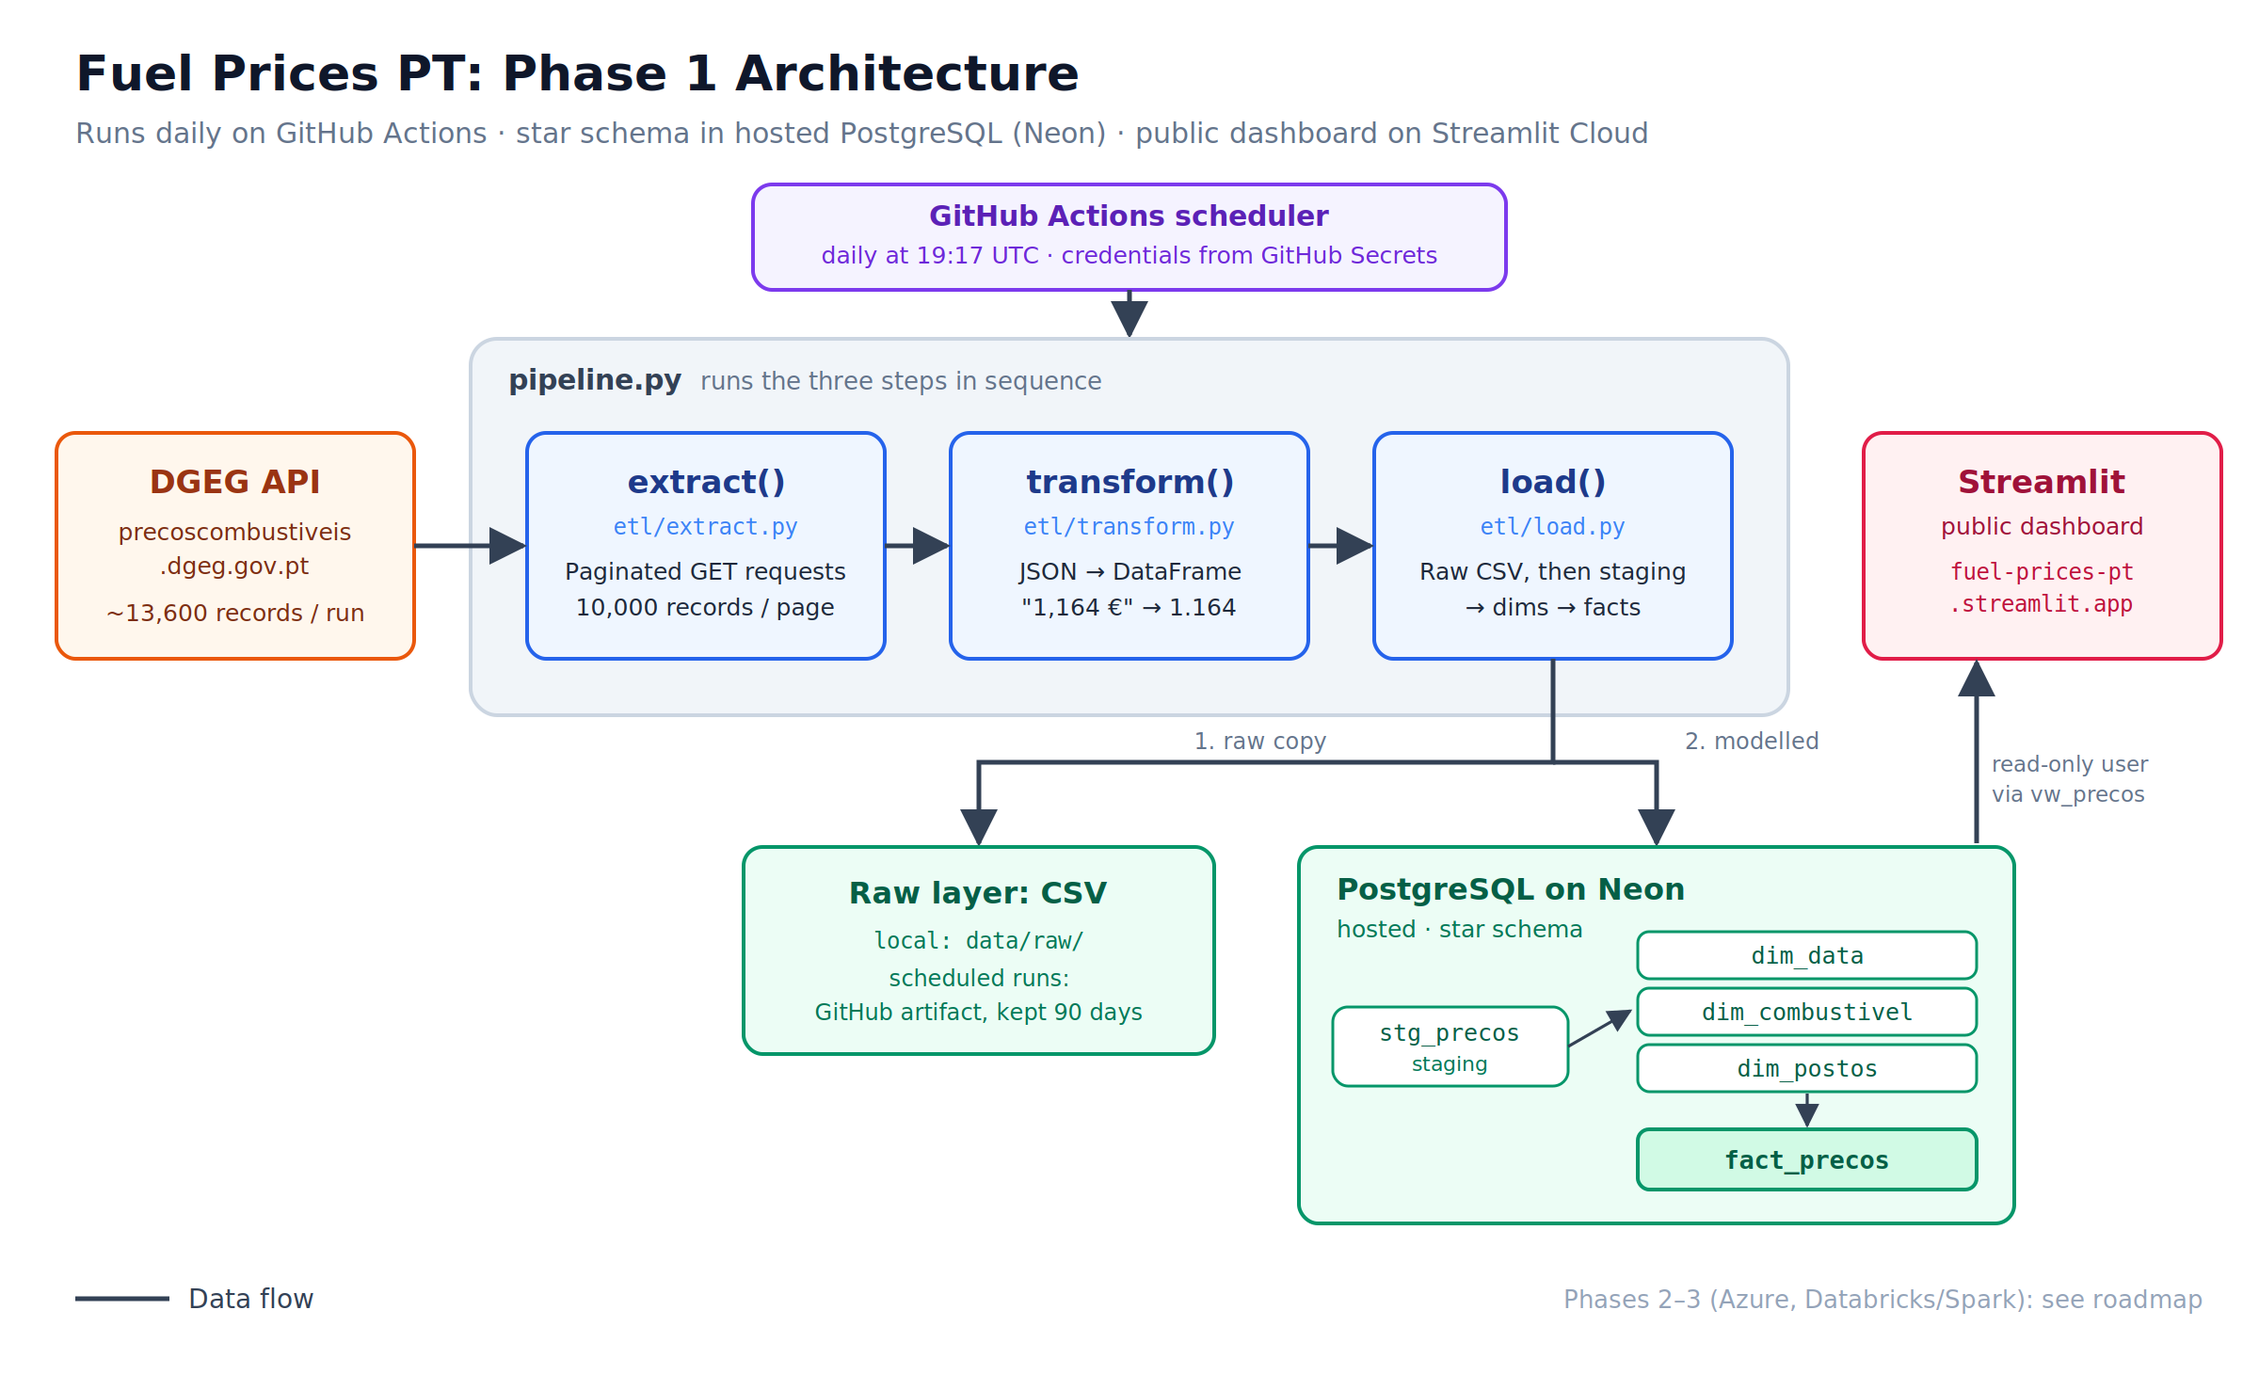
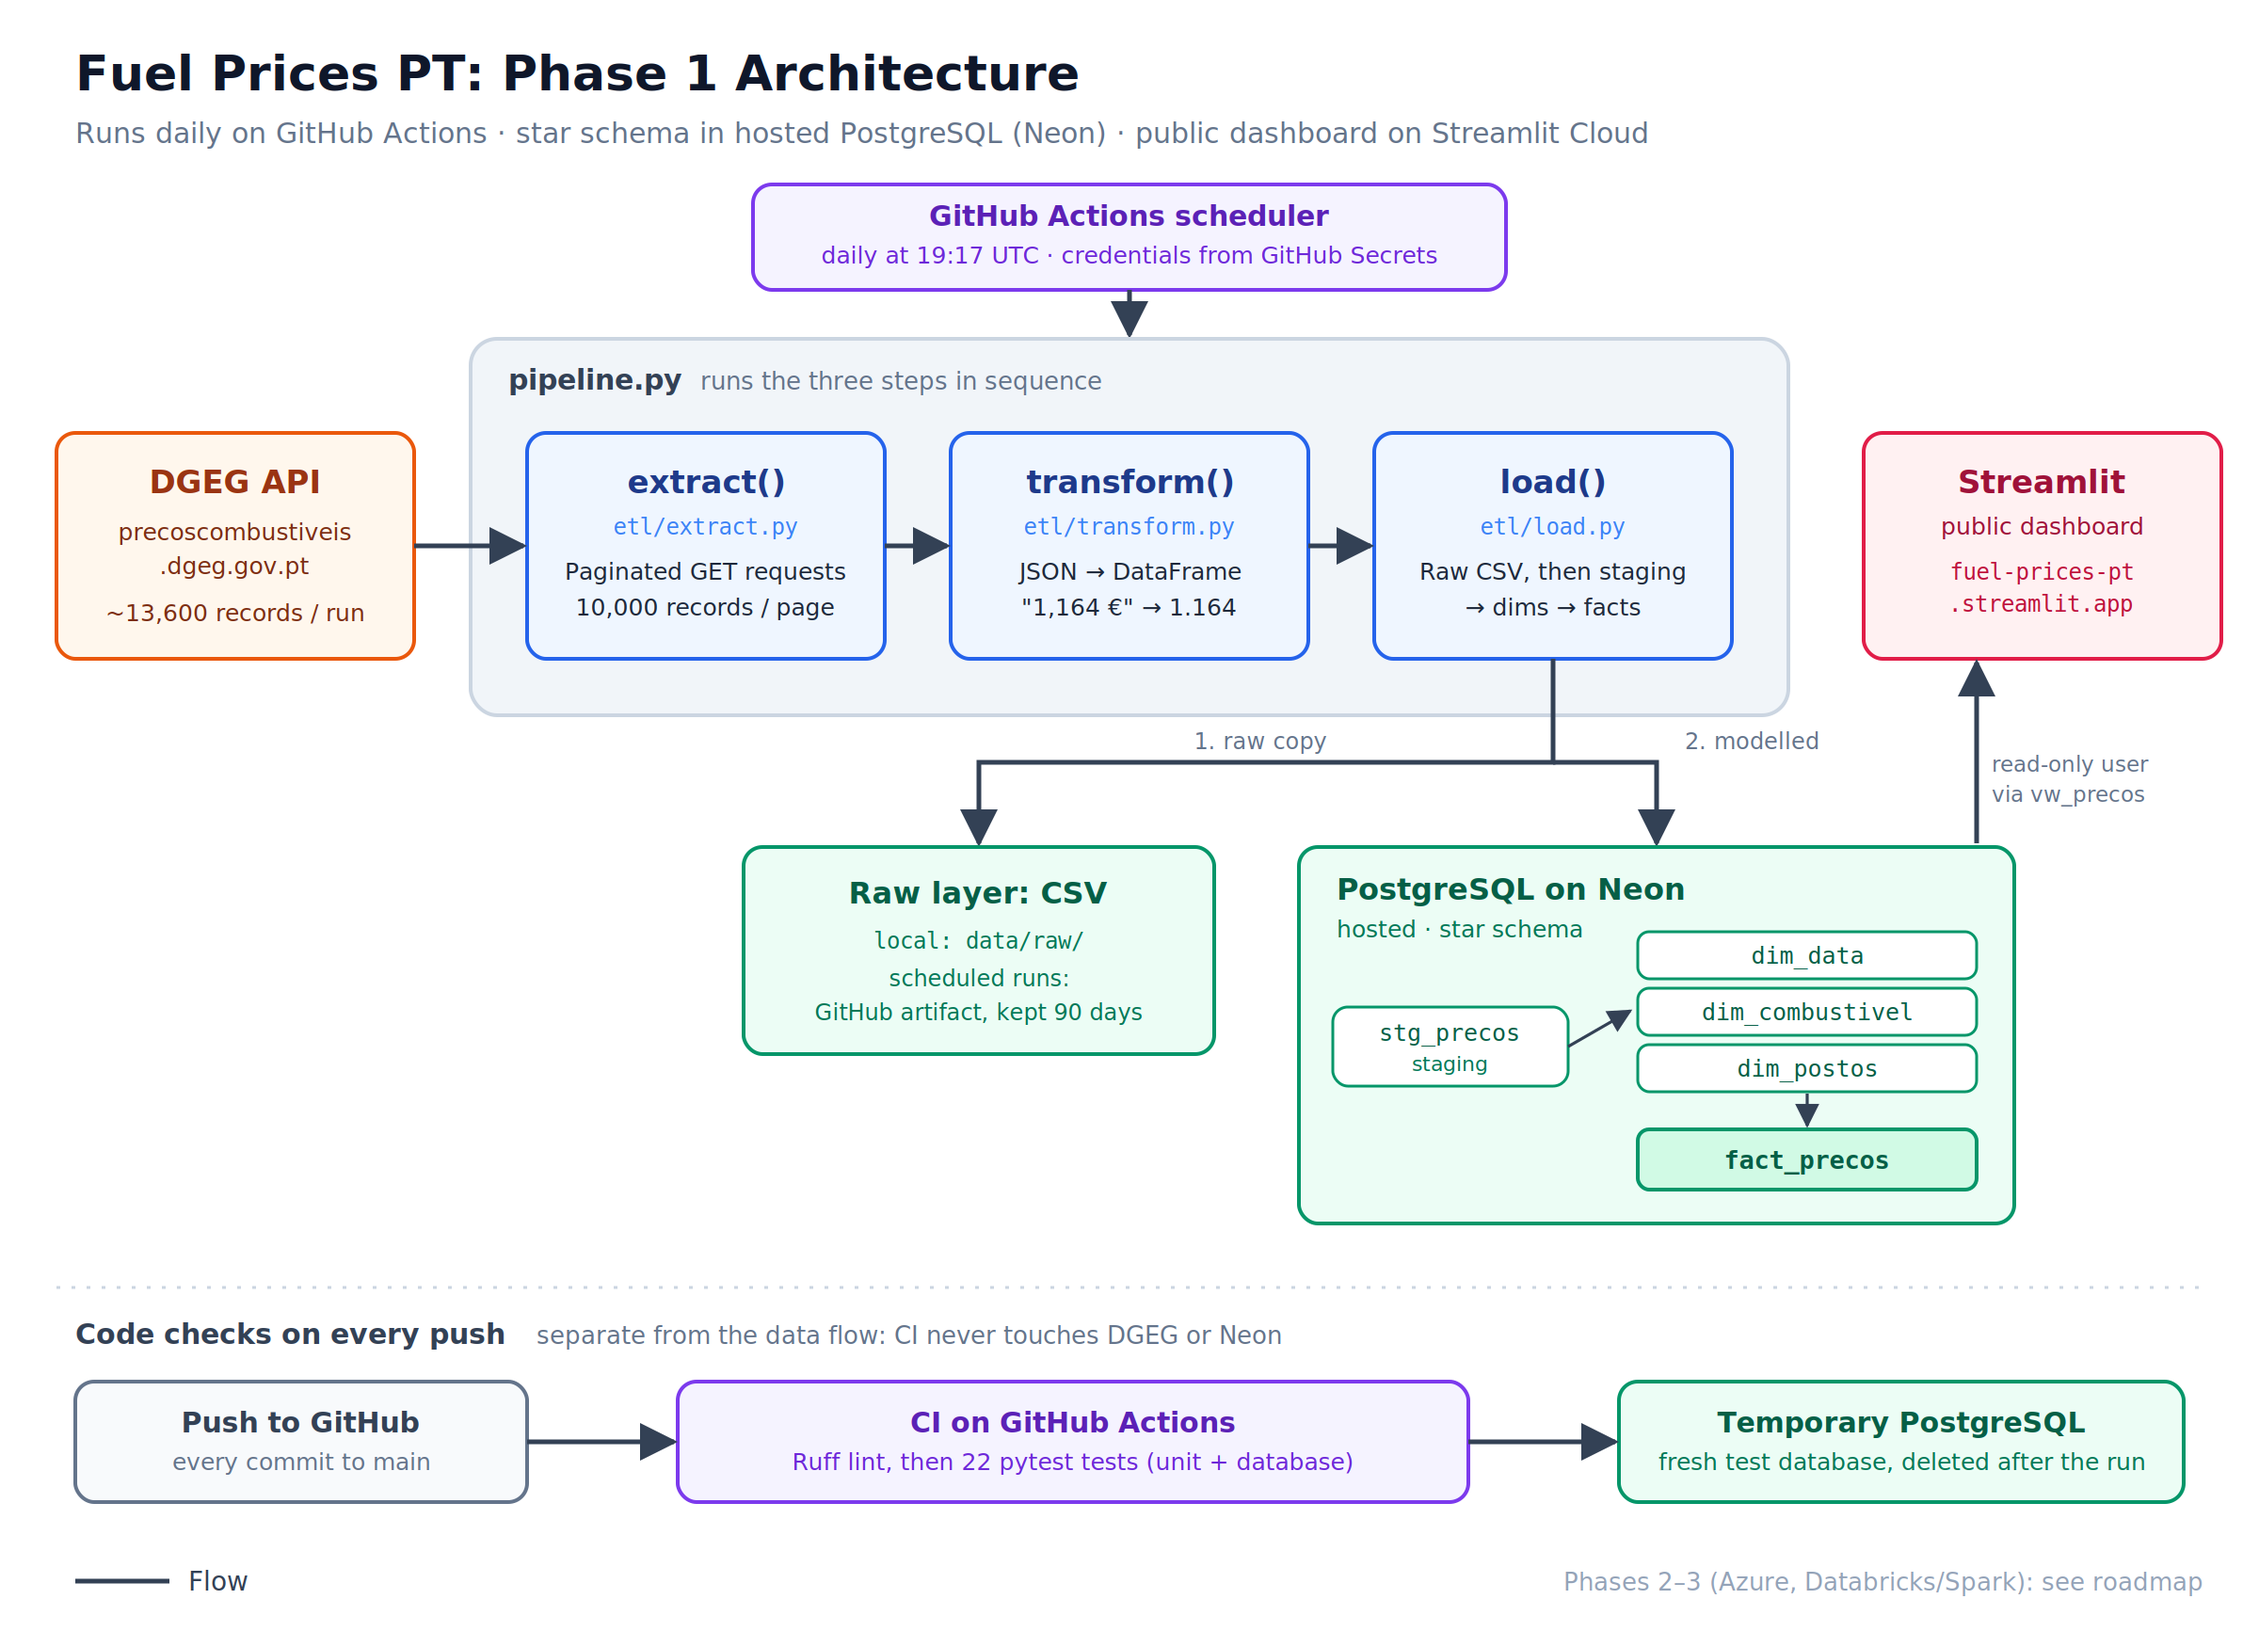
README: Testing section, CI badge, dashboard screenshot; architecture shows CI

Changed region(s): [[0.0312, 0.0308, 0.9688, 0.9863], [0.2188, 0.863, 0.3125, 0.8938], [0.1562, 0.4623, 0.1875, 0.4932]]

diff --git a/README.md b/README.md
@@ -1,11 +1,10 @@
 # Fuel Prices PT
 
-[![Open the live dashboard](https://static.streamlit.io/badges/streamlit_badge_black_white.svg)](https://fuel-prices-pt.streamlit.app/) 
-![Image of Dashboard Streamlit](docs/images/dashboard.png)
-
-[![CI](https://github.com/amffpsa24-art/DE-Project---fuel-prices-pt/actions/workflows/ci.yml/badge.svg)](https://github.com/amffpsa24-art/DE-Project---fuel-prices-pt/actions/workflows/ci.yml)
+[![Open the live dashboard](https://static.streamlit.io/badges/streamlit_badge_black_white.svg)](https://fuel-prices-pt.streamlit.app/) [![CI](https://github.com/amffpsa24-art/DE-Project---fuel-prices-pt/actions/workflows/ci.yml/badge.svg)](https://github.com/amffpsa24-art/DE-Project---fuel-prices-pt/actions/workflows/ci.yml)
 
 **Live dashboard: [fuel-prices-pt.streamlit.app](https://fuel-prices-pt.streamlit.app/)**
+
+![Fuel Prices PT dashboard: map of every station coloured by price, with the cheapest stations alongside](docs/images/dashboard.png)
 
 A daily ETL pipeline that collects the price of every fuel at every petrol station in Portugal and models it as a star schema in a hosted PostgreSQL database, building a price history that the official source does not keep. It runs automatically every day on GitHub Actions, and a public Streamlit dashboard reads the warehouse.
 
@@ -47,6 +46,7 @@ The pipeline follows an **extract → transform → load** structure, with each 
 | Load | [`etl/load.py`](etl/load.py) | Saves a dated raw CSV, then loads PostgreSQL through a staging table |
 | Orchestration | [`pipeline.py`](pipeline.py) | Runs the three steps in sequence |
 | Scheduling | [`.github/workflows/daily.yml`](.github/workflows/daily.yml) | Runs the pipeline every day on GitHub Actions |
+| Testing | [`.github/workflows/ci.yml`](.github/workflows/ci.yml) | Lints the code and runs the tests on every push |
 | Dashboard | [`dashboard/app.py`](dashboard/app.py) | Public Streamlit app reading the warehouse, hosted on Streamlit Community Cloud |
 
 Example run:
@@ -89,6 +89,30 @@ The pipeline runs every day on **GitHub Actions** ([`daily.yml`](.github/workflo
 - **Raw snapshots:** GitHub's machines are wiped after each run, so the day's CSV is uploaded as a **workflow artifact**, kept for 90 days. The upload runs even if the database step fails, so the raw data is never lost to a load error.
 - **Correct dates:** the job runs with the `Europe/Lisbon` time zone, so each snapshot gets the Portuguese date.
 - **Safe reruns:** because loads are idempotent, a retried or manual run on the same day never duplicates data.
+
+## Testing
+
+Every push runs the [CI workflow](.github/workflows/ci.yml) on GitHub Actions: Ruff checks the code, then pytest runs 22 tests.
+
+| Tests | What they check |
+|---|---|
+| [`test_transform.py`](tests/test_transform.py) | Price parsing (`"1,164 €"` → `1.164`), garbled values failing loudly, the transform on a real API sample |
+| [`test_extract.py`](tests/test_extract.py) | Pagination against a fake API: stops at the total, stops on an empty page, fails on an HTTP error. The tests never call DGEG. |
+| [`test_load.py`](tests/test_load.py) | Against a real PostgreSQL: every table filled, prices stored exactly, loading a day twice changes nothing, SCD Type 2 versions, and a failed load leaving nothing behind |
+
+- **Separate database.** The database tests never touch the real data: CI starts a temporary PostgreSQL for each run, and locally they use a `fuel_prices_test` database. A guard refuses to run them against any database whose name doesn't end in `_test`.
+- **Testing the tests.** To check the tests catch real bugs, I broke the loading SQL on purpose. Replacing `IS DISTINCT FROM` with `<>` still passed every test at first: in SQL, a comparison with NULL gives "unknown", so `<>` silently misses changes such as coordinates added to a station that had none. I added a test for that case, and it now fails as soon as the comparison is broken.
+
+**Running the tests locally**
+
+```bash
+pip install -r requirements-dev.txt
+psql -U postgres -c "CREATE DATABASE fuel_prices_test ENCODING 'UTF8';"
+ruff check .
+pytest -v
+```
+
+Without a test database, the database tests are skipped with a message and the others still run. To use a different database, set `TEST_DATABASE_URL`.
 
 ## Dashboard
 
@@ -224,6 +248,11 @@ The gap between the cheapest district (Braga) and the most expensive (Bragança)
 - [x] Hosted PostgreSQL (Neon) + daily scheduling with GitHub Actions
 - [x] Public Streamlit dashboard with a read-only database user
 
+**Production readiness** *(in progress)*
+- [x] Unit and database tests (pytest) with CI on every push
+- [ ] Data quality checks that stop a bad load (volume, schema, price ranges)
+- [ ] Run log table, retries and structured logging
+
 **Phase 2: Cloud storage**
 - [ ] Bronze layer in Azure Data Lake (untouched API responses)
 - [ ] Explicit bronze / silver / gold layers
@@ -238,7 +267,8 @@ The gap between the cheapest district (Braga) and the most expensive (Bragança)
 
 ```
 ├── .github/workflows/
-│   └── daily.yml               # daily schedule on GitHub Actions
+│   ├── daily.yml               # daily schedule on GitHub Actions
+│   └── ci.yml                  # lint + tests on every push
 ├── .streamlit/
 │   ├── config.toml             # dashboard theme (colours, font)
 │   └── secrets.toml.example    # template for the dashboard's database settings
@@ -254,12 +284,16 @@ The gap between the cheapest district (Braga) and the most expensive (Bragança)
 │   ├── load_from_staging.sql   # staging → dimensions (SCD Type 2) → fact table
 │   ├── views.sql               # vw_precos: star schema joined for reading
 │   └── dashboard_role.sql      # permissions for a read-only dashboard user
+├── tests/                      # unit tests + database tests (pytest)
 ├── pipeline.py                 # runs the full ETL
 ├── backfill.py                 # loads existing raw CSVs into PostgreSQL
 ├── notebooks/                  # initial API exploration
-├── docs/images/                # diagrams
+├── notes/                      # API discovery notes and work logs
+├── docs/images/                # diagrams and dashboard screenshot
 ├── .env.example                # template for database settings
-└── requirements.txt
+├── pyproject.toml              # pytest and Ruff settings
+├── requirements.txt            # pipeline dependencies
+└── requirements-dev.txt        # pipeline dependencies + pytest + Ruff
 ```
 
 The `data/` folder is created when the pipeline runs and is excluded from version control, as are all `.env` files except the template.
@@ -319,7 +353,7 @@ Add four repository secrets under **Settings → Secrets and variables → Actio
 
 ## Tech stack
 
-**Now:** Python, requests, pandas, PostgreSQL, psycopg, SQL, Neon, GitHub Actions, Streamlit, Plotly, Streamlit Community Cloud, Git/GitHub
+**Now:** Python, requests, pandas, PostgreSQL, psycopg, SQL, Neon, GitHub Actions, Streamlit, Plotly, Streamlit Community Cloud, pytest, Ruff, Git/GitHub
 **Planned:** Azure Data Lake, Databricks, Spark, Delta Lake, Power BI
 
 ## Author
